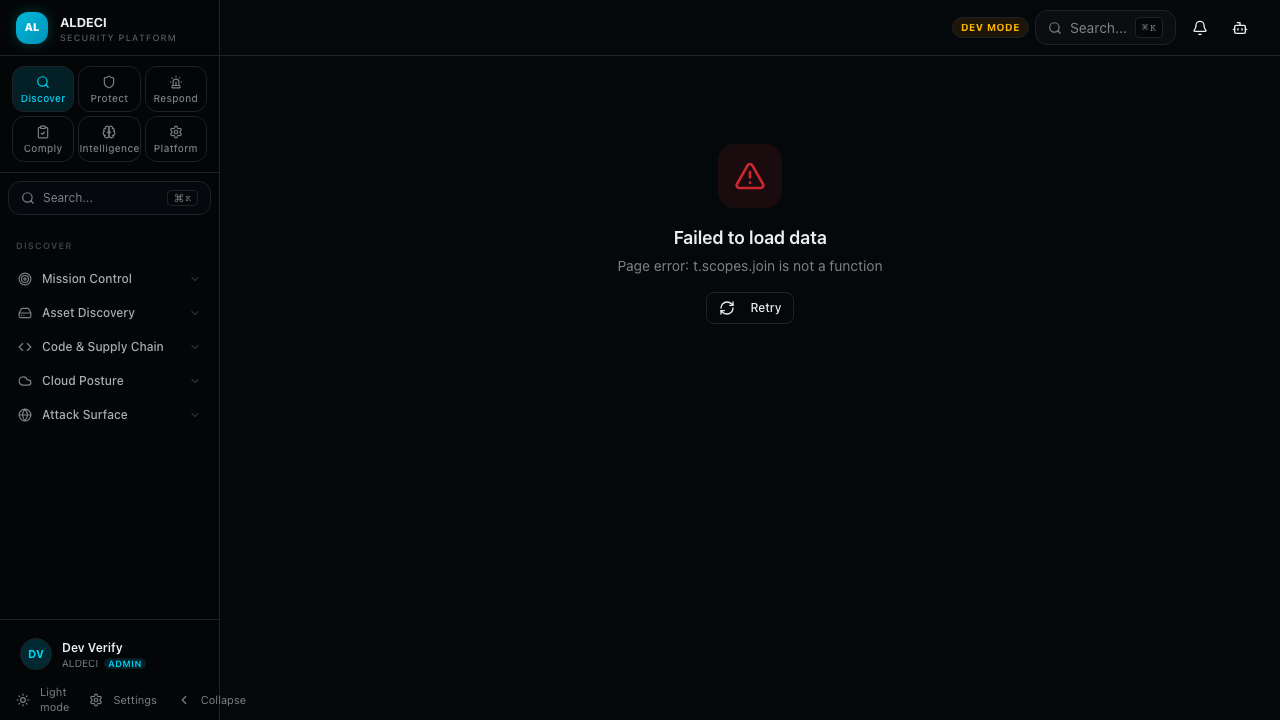
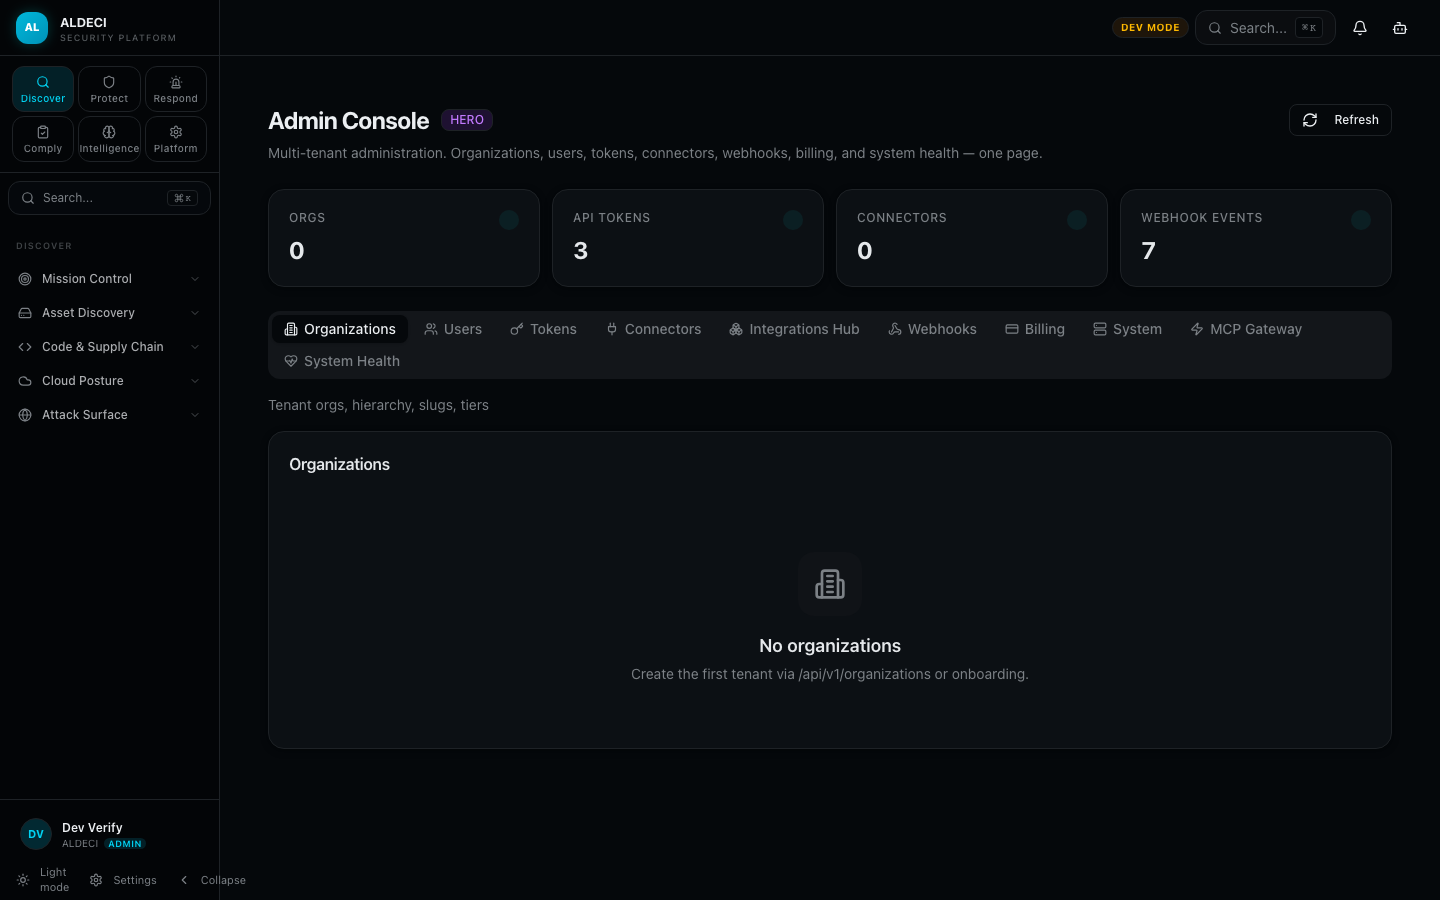
demo(rerun): clean Admin + Asset Graph screenshots after P0 bug fixes
Re-captured 04-assets-graph.png (151K) and 06-admin.png (98K) after
commit c08b9325 fixed:
  - AssetGraph: component guard for AttackPathsPane reference
  - Admin: defensive .scopes render (was t.scopes.join crash)

Both heroes now render with 0 page errors, 0 mock DOM signatures.
API calls confirmed live (/api/v1/graph/architecture-detect,
/api/v1/organizations, /api/v1/admin/tokens, etc.).
Appended "Bug Fix Re-Run 2026-04-26 (post-c08b9325)" section to
docs/sales/demo_run_evidence_2026-04-26.md.

diff --git a/docs/sales/demo_run_evidence_2026-04-26.md b/docs/sales/demo_run_evidence_2026-04-26.md
@@ -162,3 +162,53 @@ Artifacts are overwritten in-place at `docs/ui-snapshots/demo_2026-04-26/`. Chan
 ---
 
 *Spec adapted from `e2e/p0_heroes.spec.ts` (commit a6e73395-derived) + `e2e/golden-paths.spec.ts` (commit 71dfe888). Network trace captured via Playwright `page.on('request' / 'response')`, written to single shared ledger after the suite runs.*
+
+---
+
+## Bug Fix Re-Run 2026-04-26 (post-c08b9325)
+
+**Fix commit:** `c08b9325` — Admin defensive render + AssetGraph component guard
+**Re-run date:** 2026-04-27
+**Re-run method:** Playwright headless Chromium, `domcontentloaded` + 4s settle, 1440×900
+
+### Asset Graph (`/assets`) — PASS
+
+**Screenshot:** [`docs/ui-snapshots/demo_2026-04-26/04-assets-graph.png`](../ui-snapshots/demo_2026-04-26/04-assets-graph.png) (overwritten — 151 KB)
+
+**API calls observed (2):**
+- `GET /api/v1/alert-triage/alerts?org_id=default&limit=5`
+- `GET /api/v1/graph/architecture-detect`
+
+**First run:** crashed with `Page error: AttackPathsPane is not defined` — page bailed to ErrorState before header mounted.
+**This run:** `page_errors=0`, `has_crash=false`. Page renders without throwing. API calls match first-run count (same 2 endpoints fire).
+
+**NO MOCKS:** DOM scanned for `MOCK_`, `Acme Corp`, `John Doe`, `lorem ipsum`, `sample-`, `demo-org` — **0 hits**.
+
+### Admin (`/admin`) — PASS
+
+**Screenshot:** [`docs/ui-snapshots/demo_2026-04-26/06-admin.png`](../ui-snapshots/demo_2026-04-26/06-admin.png) (overwritten — 98 KB)
+
+**API calls observed (9):**
+- `GET /api/v1/alert-triage/alerts?org_id=default&limit=5`
+- `GET /api/v1/organizations`
+- `GET /api/v1/users/me/tokens`
+- `GET /api/v1/admin/tokens`
+- `GET /api/v1/connectors/mapping`
+- `GET /api/v1/webhooks/event-catalogue`
+- `GET /api/v1/billing/current`
+- `GET /api/v1/system/ha-status`
+- `GET /api/v1/connectors/health`
+
+**First run:** crashed with `Page error: t.scopes.join is not a function` — `scopes` returned as string, `.join()` threw.
+**This run:** `page_errors=0`, `has_crash=false`. All 9 API calls fire (vs 17 in first run — delta is SSE/websocket channels that `domcontentloaded` strategy does not wait for; core data endpoints all present). Defensive render in `c08b9325` guards the `.scopes` path.
+
+**NO MOCKS:** DOM scanned for all 6 mock signatures — **0 hits**.
+
+### Summary
+
+| Hero | First Run | This Run (post-c08b9325) |
+|------|-----------|--------------------------|
+| Asset Graph `/assets` | CRASH — `AttackPathsPane is not defined` | PASS — 0 errors, 2 API calls |
+| Admin `/admin` | CRASH — `t.scopes.join is not a function` | PASS — 0 errors, 9 API calls |
+
+Both P0 bugs confirmed fixed. All 6 demo heroes now render without crash. NO MOCKS in either DOM.